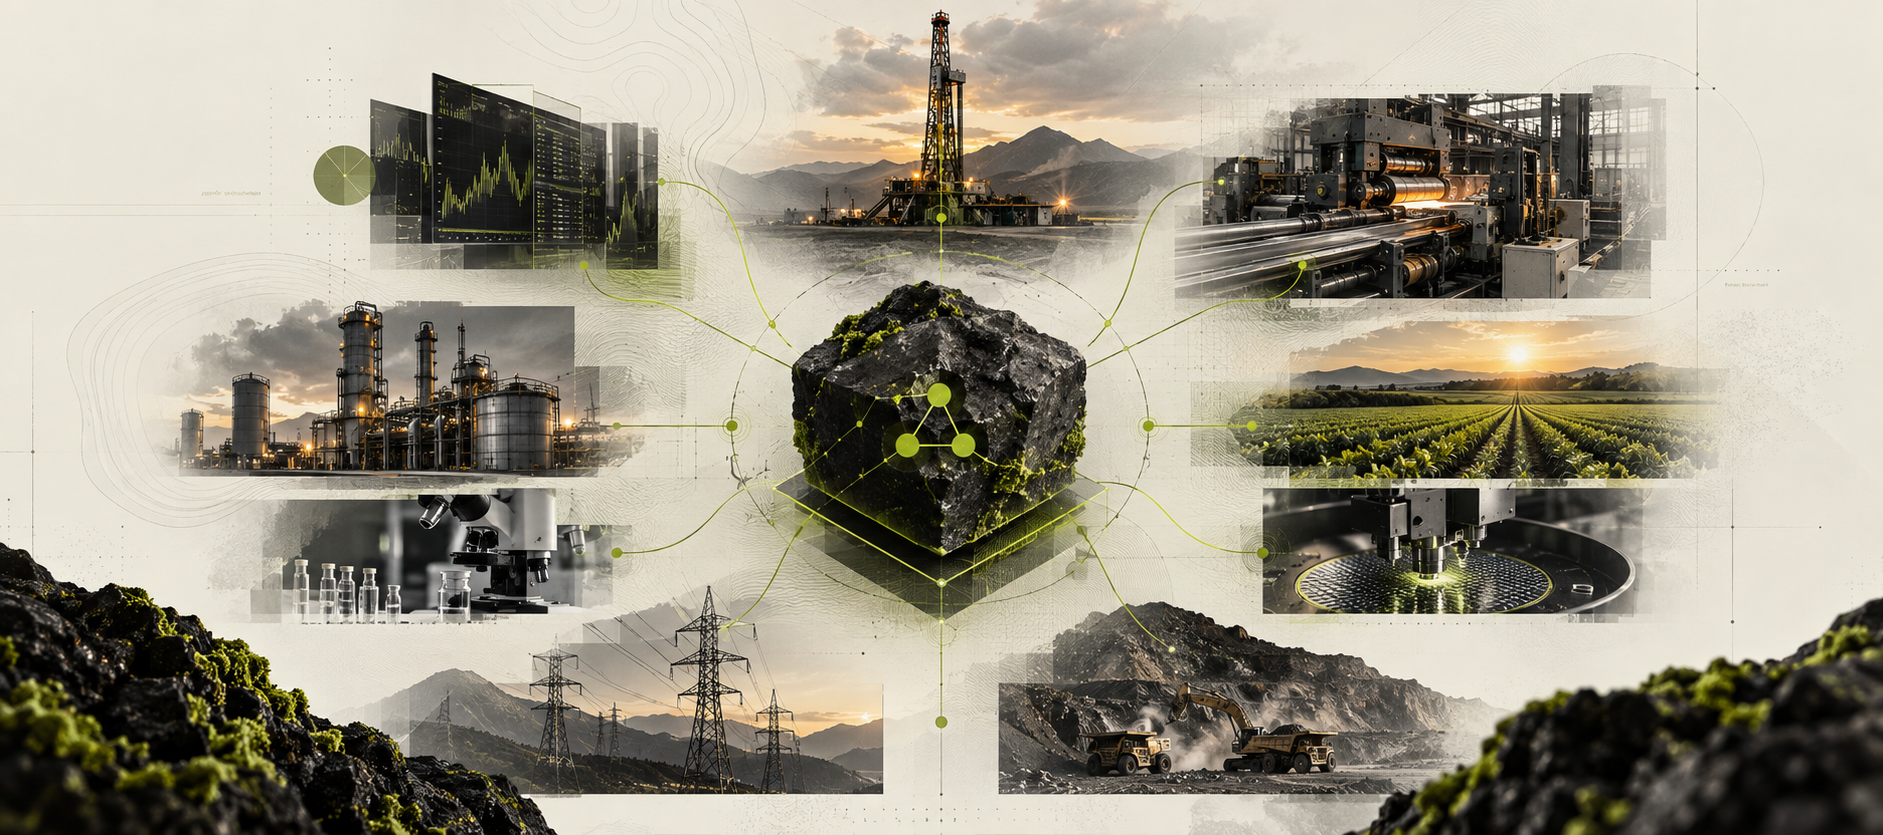
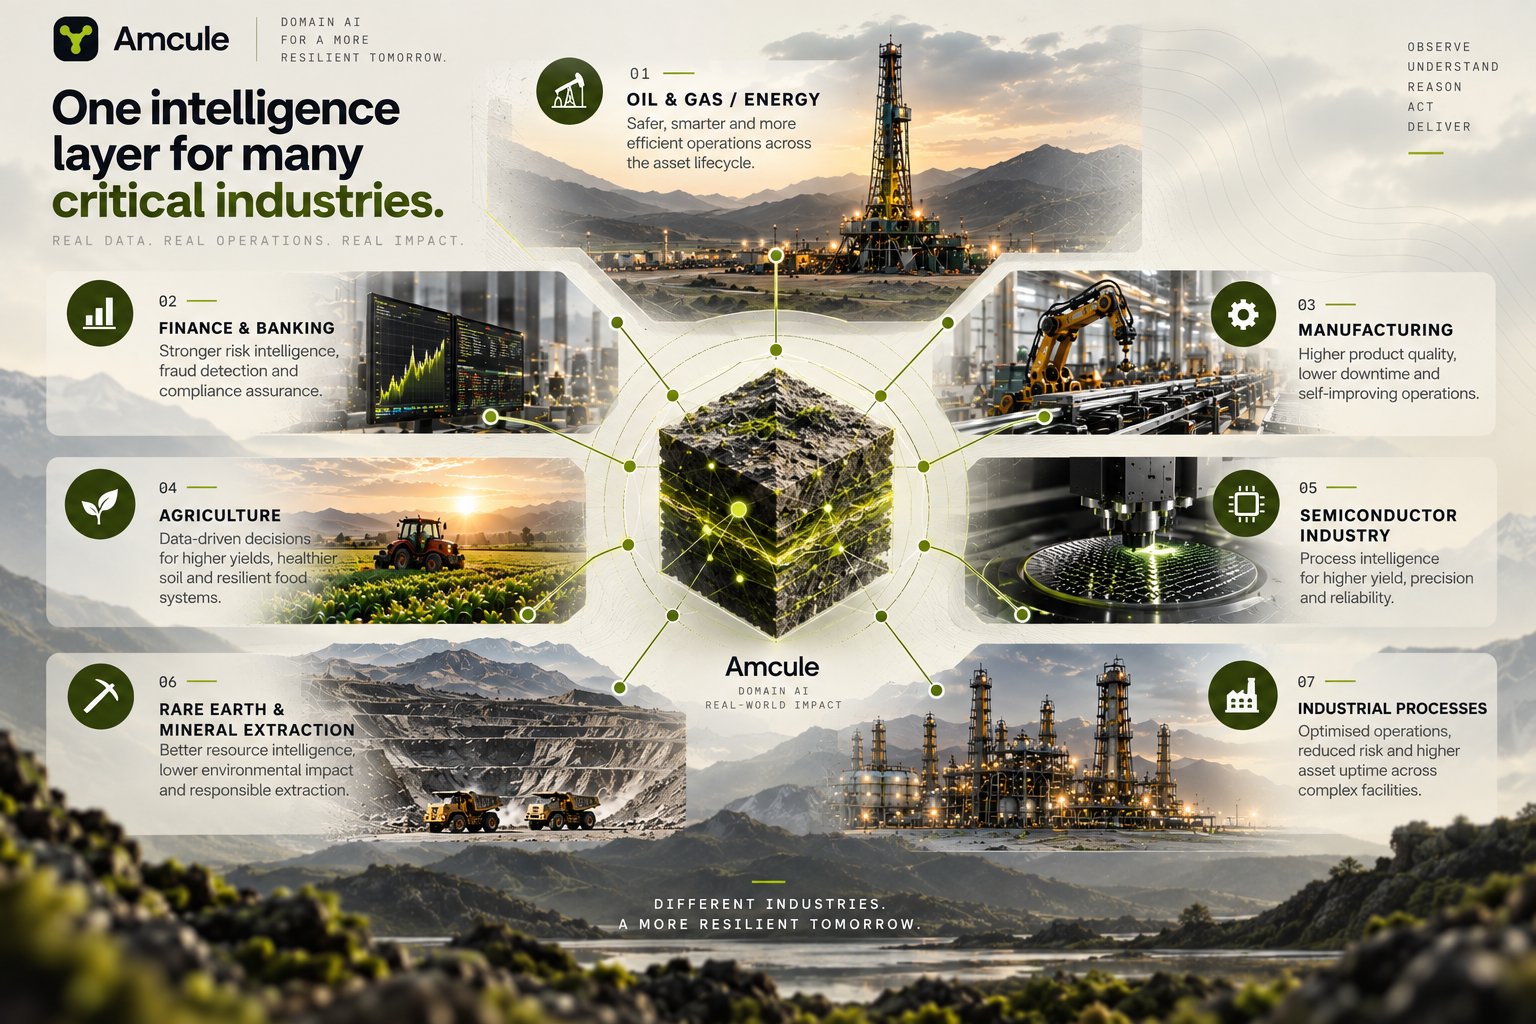
fix mission overlap, whyamcule image, cleanup
Mission's ghost text was mission-new.png itself: it's a full design
mockup with its own baked-in Mission/Vision copy, not a plain photo,
and using it as a live CSS background let that copy bleed through
behind the coded overlay text. Removed the background-image use;
Mission panel is now solid charcoal, coded text only, one version.

Moat.tsx (the "Why Amcule" section) is now the single whyamcule.png
image per the reference — text, tiers, and imagery are all in the
photo, so the coded cards/arrows/pull-quote are gone.

Claude-Session: https://claude.ai/code/session_019jECr1c1WE32kiYFZSDGTi

diff --git a/src/components/sections/Moat.tsx b/src/components/sections/Moat.tsx
@@ -1,138 +1,15 @@
-import { useEffect, useRef } from 'react'
-import { gsap } from 'gsap'
-import { ScrollTrigger } from 'gsap/ScrollTrigger'
-import { WetSurface } from '../ui/WetSurface'
-import { TopoLines } from '../ui/TopoLines'
-import { TechMark } from '../ui/TechMark'
-import { useScrollReveal } from '../../hooks/useScrollReveal'
-
-gsap.registerPlugin(ScrollTrigger)
-
-const tiers = [
-  {
-    name: 'Generic Cloud AI',
-    points: ['General-purpose models', 'External infrastructure', 'Limited domain context'],
-    dark: false,
-  },
-  {
-    name: 'Cross-Operator Models',
-    points: ['Broader operator data', 'Shared foundation model', 'Vendor-controlled roadmap'],
-    dark: false,
-  },
-  {
-    name: 'Amcule Independent Intelligence Layer',
-    points: ['Operator-specific weights', 'Deployable on-premise / air-gapped', 'Domain-specialised, operator-controlled'],
-    dark: true,
-  },
-]
-
-/** The destination glow — an exact, deliberate lichen ambient shadow, not the shared card shadow. */
-const DESTINATION_SHADOW_CLASS =
-  'shadow-[0_8px_40px_rgba(184,217,0,0.15),0_2px_4px_0_rgba(17,17,17,0.04),0_16px_40px_-16px_rgba(17,17,17,0.14)]'
+import whyamculeImage from '../../assets/images/whyamcule.png'
 
 /**
- * Why Amcule — the architectural distinction, not a competitor attack
- * page. Three tiers in a single downward progression, narrowing toward
- * the Amcule layer, which is the deliberate charcoal anchor: a lichen
- * ambient glow marks it as the destination, and the connecting arrows
- * draw themselves in once the progression scrolls into view.
+ * Why Amcule — the image already contains the headline, the three-tier
+ * progression, the mossy volcanic rock imagery, and all the text. It IS
+ * the section.
  */
 export function Moat() {
-  const ref = useScrollReveal<HTMLDivElement>()
-  const tiersRef = useRef<HTMLDivElement | null>(null)
-  const arrowRefs = useRef<Array<SVGPathElement | null>>([])
-
-  useEffect(() => {
-    const container = tiersRef.current
-    const paths = arrowRefs.current.filter((el): el is SVGPathElement => el !== null)
-    if (!container || paths.length === 0) return
-
-    const prefersReducedMotion = window.matchMedia('(prefers-reduced-motion: reduce)').matches
-
-    paths.forEach((path) => {
-      const length = path.getTotalLength()
-      path.style.strokeDasharray = `${length}`
-      path.style.strokeDashoffset = prefersReducedMotion ? '0' : `${length}`
-    })
-
-    if (prefersReducedMotion) return
-
-    const tween = gsap.to(paths, {
-      strokeDashoffset: 0,
-      duration: 0.5,
-      stagger: 0.25,
-      ease: 'power2.out',
-      scrollTrigger: { trigger: container, start: 'top 75%', once: true },
-    })
-
-    return () => {
-      tween.scrollTrigger?.kill()
-      tween.kill()
-    }
-  }, [])
-
   return (
-    <section id="moat" className="bg-dotgrid relative overflow-hidden bg-ice-50 py-28 sm:py-36">
-      <TopoLines corner="top-right" className="opacity-[0.06]" />
-
-      <div className="container-page relative" ref={ref}>
-        <div className="reveal max-w-2xl">
-          <p className="mb-4 text-xs font-semibold uppercase tracking-widest text-lichen-dark">Why Amcule</p>
-          <h2 className="text-4xl sm:text-5xl">
-            Independence <span className="text-stone-500">is the architecture.</span>
-          </h2>
-        </div>
-
-        <div ref={tiersRef} className="mx-auto mt-16 flex max-w-3xl flex-col items-stretch">
-          {tiers.map((tier, i) => (
-            <div key={tier.name} className="reveal" style={{ width: `${100 - i * 8}%`, marginLeft: `${i * 4}%` }}>
-              <WetSurface
-                dark={tier.dark}
-                className={`relative flex flex-col gap-4 p-8 sm:flex-row sm:items-center sm:justify-between ${tier.dark ? DESTINATION_SHADOW_CLASS : ''}`}
-              >
-                {tier.dark && <TechMark variant="plus" dark className="absolute right-5 top-5 h-3.5 w-3.5" />}
-                <h3 className={`font-display text-xl font-bold sm:text-2xl ${tier.dark ? 'text-lichen-400' : 'text-slag-700'}`}>
-                  {tier.name}
-                </h3>
-                <ul className="flex flex-wrap gap-x-6 gap-y-1.5">
-                  {tier.points.map((p) => (
-                    <li
-                      key={p}
-                      className={`flex items-center gap-1.5 text-sm ${tier.dark ? 'text-white/80' : 'text-stone-500'}`}
-                    >
-                      <span className={`h-1 w-1 rounded-full ${tier.dark ? 'bg-lichen-400' : 'bg-stone-500'}`} aria-hidden="true" />
-                      {p}
-                    </li>
-                  ))}
-                </ul>
-              </WetSurface>
-
-              {i < tiers.length - 1 && (
-                <div className="flex justify-center py-3" aria-hidden="true">
-                  <svg width="14" height="18" viewBox="0 0 14 18" fill="none">
-                    <path
-                      ref={(el) => {
-                        arrowRefs.current[i] = el
-                      }}
-                      d="M7 0v14M1 10l6 6 6-6"
-                      stroke="#8FA900"
-                      strokeWidth="1.4"
-                      strokeLinecap="round"
-                      strokeLinejoin="round"
-                    />
-                  </svg>
-                </div>
-              )}
-            </div>
-          ))}
-        </div>
-
-        <WetSurface className="reveal mt-16 p-10 sm:p-14">
-          <blockquote className="font-display text-2xl font-bold leading-snug text-slag-900 sm:text-3xl">
-            An operator&rsquo;s ILM knows only that operator &mdash;{' '}
-            <span className="text-lichen-dark">by architecture, not contract.</span>
-          </blockquote>
-        </WetSurface>
+    <section id="moat" className="bg-[#F3F1E8] py-20">
+      <div className="mx-auto max-w-[1200px] px-10">
+        <img src={whyamculeImage} alt="Why Amcule — Independence is the architecture" className="w-full rounded-2xl" loading="lazy" />
       </div>
     </section>
   )

diff --git a/src/components/sections/Mission.tsx b/src/components/sections/Mission.tsx
@@ -1,4 +1,3 @@
-import { getImage } from '../../lib/images'
 import { TopoLines } from '../ui/TopoLines'
 import { useScrollReveal } from '../../hooks/useScrollReveal'
 
@@ -32,18 +31,15 @@ function GlassCard({ title, items }: { title: string; items: string[] }) {
  */
 export function Mission() {
   const ref = useScrollReveal<HTMLDivElement>()
-  const missionImg = getImage('mission-new.png')
 
   return (
     <section id="mission" className="relative">
       <div ref={ref} className="grid grid-cols-1 lg:grid-cols-[65fr_35fr]">
-        {/* Mission — the operator photo as a background-image, charcoal container */}
-        <div
-          className="reveal relative isolate flex min-h-[640px] flex-col justify-between overflow-hidden bg-charcoal-900 px-6 py-16 sm:px-10 sm:py-20 lg:px-16 lg:py-20"
-          style={missionImg ? { backgroundImage: `url(${missionImg})`, backgroundSize: 'cover', backgroundPosition: 'center' } : undefined}
-        >
-          <div aria-hidden="true" className="absolute inset-0 -z-10 bg-charcoal-900/55" />
-
+        {/* Mission — charcoal container (no raw mockup image as background —
+            that file is a full design reference with its own baked-in text,
+            not a plain photo, and using it as a background bled ghost copy
+            through behind the coded overlay). */}
+        <div className="reveal relative isolate flex min-h-[640px] flex-col justify-between overflow-hidden bg-charcoal-900 px-6 py-16 sm:px-10 sm:py-20 lg:px-16 lg:py-20">
           <div className="relative flex flex-1 flex-col justify-between gap-10 lg:flex-row lg:items-start">
             <div className="max-w-lg">
               <p className="mb-6 text-xs font-semibold uppercase tracking-widest text-lichen-400">Mission</p>
